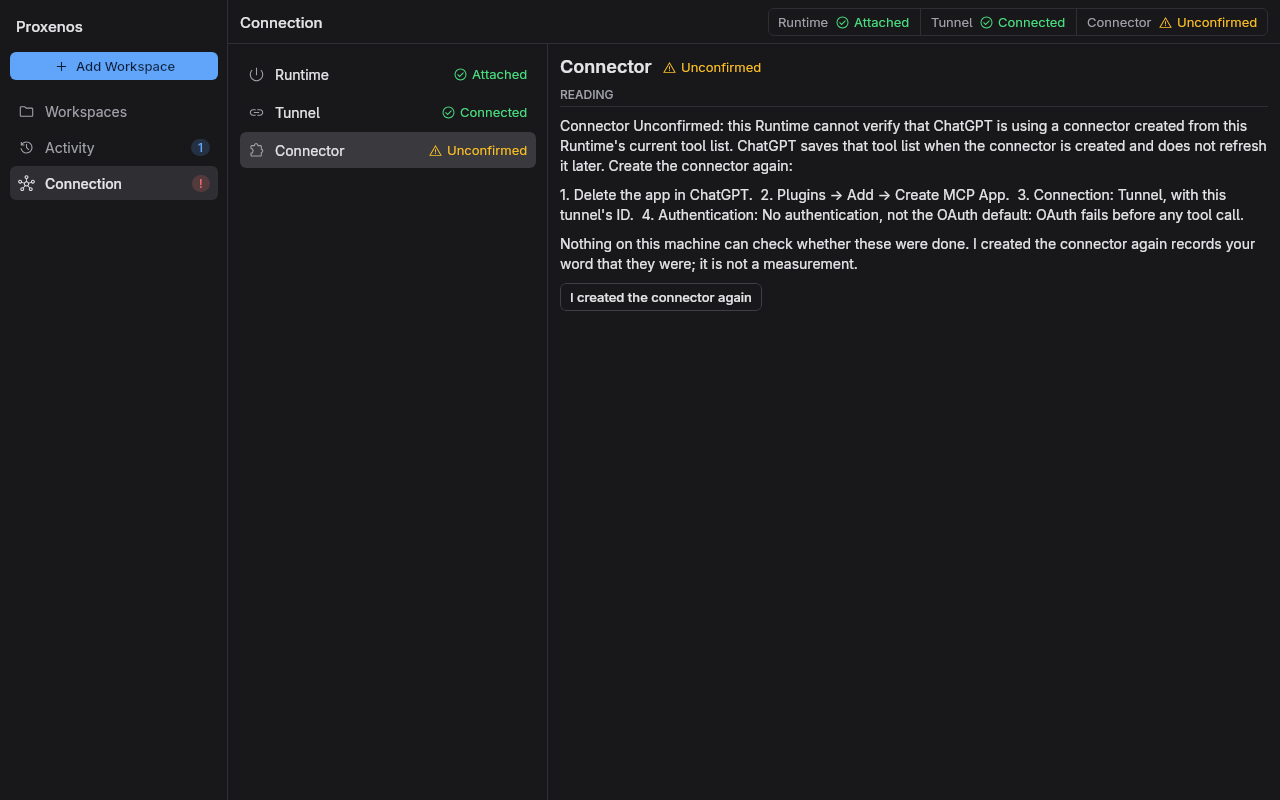
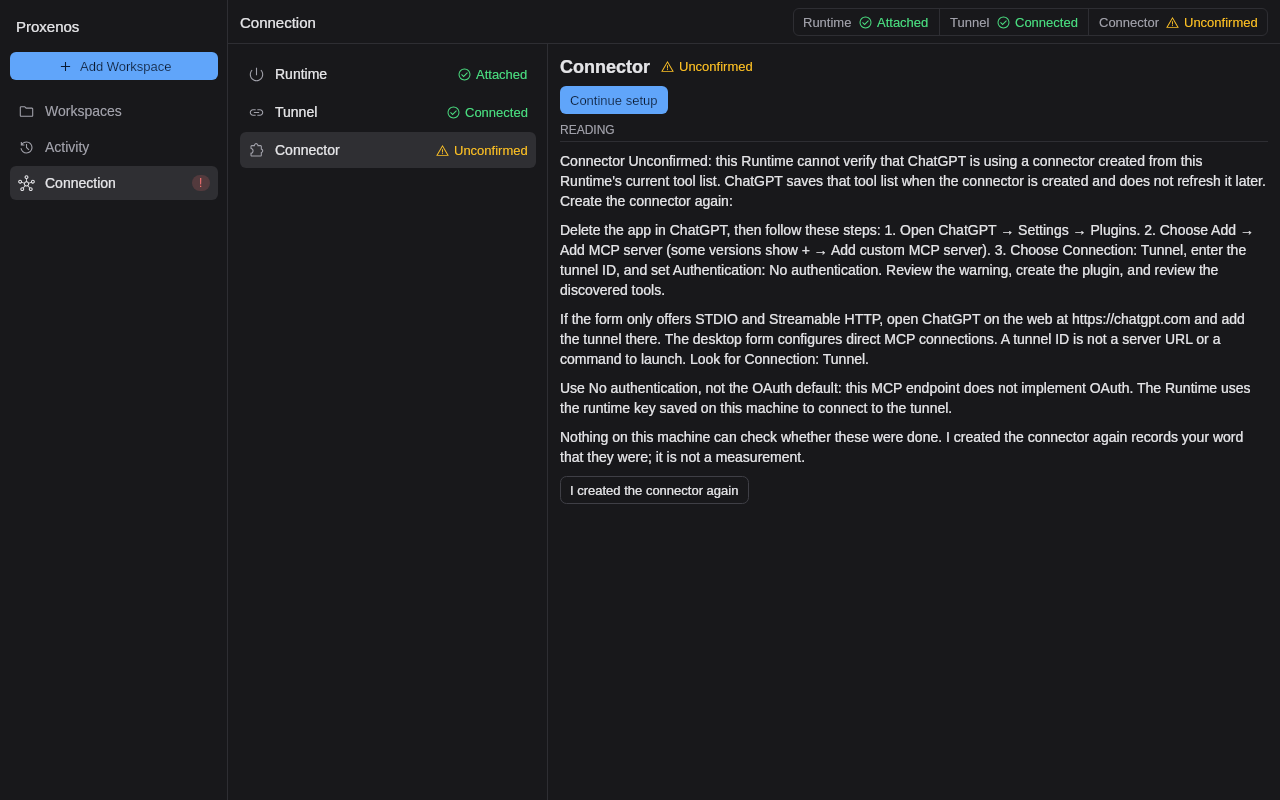
Clarify ChatGPT tunnel setup across the app
- Explain where to add a tunnel and what to do when desktop only offers direct MCP
- Update the setup wizard, terminal guide, and screenshots

diff --git a/frontend/src/main/kotlin/io/github/kzagoris/proxenos/frontend/Wording.kt b/frontend/src/main/kotlin/io/github/kzagoris/proxenos/frontend/Wording.kt
@@ -182,6 +182,19 @@ object Wording {
       "reachable with nobody present. After a reboot every call from ChatGPT fails until the Runtime is started " +
       "once, so that silence is expected rather than a fault to hunt."
 
+  const val CHATGPT_MCP_STEPS: String =
+    "1. Open ChatGPT → Settings → Plugins.\n" +
+      "2. Choose Add → Add MCP server (some versions show + → Add custom MCP server).\n" +
+      "3. Choose Connection: Tunnel, enter the tunnel ID, and set Authentication: No authentication. " +
+      "Review the warning, create the plugin, and review the discovered tools."
+
+  const val CHATGPT_DIRECT_MCP: String =
+    "If the form only offers STDIO and Streamable HTTP, open ChatGPT on the web at https://chatgpt.com " +
+      "and add the tunnel there. The desktop form configures direct MCP connections. " +
+      "A tunnel ID is not a server URL or a command to launch. Look for Connection: Tunnel."
+
+  const val CHATGPT_CONNECTION_GUIDE: String = "https://developers.openai.com/plugins/deploy/connect-chatgpt"
+
   /**
    * The Unconfirmed detail: the literal steps, and plainly that nothing here can check them — so
    * [acknowledge], the frontend's name for the act that records it, records the user's word and
@@ -190,8 +203,10 @@ object Wording {
   fun unconfirmed(acknowledge: String): List<String> = listOf(
     "Connector Unconfirmed: this Runtime cannot verify that ChatGPT is using a connector created from this Runtime's current tool list. " +
       "ChatGPT saves that tool list when the connector is created and does not refresh it later. Create the connector again:",
-    "1. Delete the app in ChatGPT.  2. Plugins → Add → Create MCP App.  3. Connection: Tunnel, with this tunnel's ID.  " +
-      "4. Authentication: No authentication, not the OAuth default: OAuth fails before any tool call.",
+    "Delete the app in ChatGPT, then follow these steps: ${CHATGPT_MCP_STEPS.replace('\n', ' ')}",
+    CHATGPT_DIRECT_MCP,
+    "Use No authentication, not the OAuth default: this MCP endpoint does not implement OAuth. " +
+      "The Runtime uses the runtime key saved on this machine to connect to the tunnel.",
     "Nothing on this machine can check whether these were done. $acknowledge records your word that they were; it is not a measurement.",
   )
 

diff --git a/gui/src/main/kotlin/io/github/kzagoris/proxenos/gui/SetupPane.kt b/gui/src/main/kotlin/io/github/kzagoris/proxenos/gui/SetupPane.kt
@@ -308,14 +308,17 @@ private fun SetupWorkspace(state: GuiState, send: (GuiIntent) -> Unit, chooser: 
 private fun SetupChatGPT(state: GuiState, send: (GuiIntent) -> Unit) {
   val tunnelId = state.setupSavedTunnelId ?: state.setupTunnelId
   SetupTitle("Add Proxenos to ChatGPT", "Create a custom MCP plugin using your tunnel. Keep the Runtime running while you do this.")
-  Text("1. Open ChatGPT → Plugins → + → Add custom MCP server.\n2. Enter these settings, review ChatGPT’s warning, then choose Create as a plugin.")
+  Text(Wording.CHATGPT_MCP_STEPS)
   ValueCard(listOf("Name" to "Proxenos", "Connection" to "Tunnel",
     "Tunnel ID" to tunnelId.ifBlank { "Use the tunnel configured for this Runtime" }, "Authentication" to "No authentication"))
   FlowRow(horizontalArrangement = Arrangement.spacedBy(8.dp), verticalArrangement = Arrangement.spacedBy(8.dp)) {
     SetupCopy("Copy name", "Proxenos")
     if (tunnelId.isNotBlank()) SetupCopy("Copy tunnel ID", tunnelId)
-    SetupLink("Open ChatGPT", CHATGPT)
+    SetupLink("Open ChatGPT on the web", CHATGPT)
+    SetupLink("OpenAI connection guide", Wording.CHATGPT_CONNECTION_GUIDE)
   }
+  Section("I only see STDIO and Streamable HTTP")
+  Text(Wording.CHATGPT_DIRECT_MCP)
   Section("My tunnel isn’t listed")
   Text("Check that it is associated with this ChatGPT workspace, and that you have Tunnels Read + Use. If available, paste the tunnel ID directly.")
   Section("I can’t find the option to add a plugin")
@@ -334,7 +337,7 @@ private fun SetupTry(state: GuiState, send: (GuiIntent) -> Unit) {
     Shaded { SelectionContainer { Text(progress.prompt(state.snapshot), fontFamily = LocalMono.current) } }
     FlowRow(horizontalArrangement = Arrangement.spacedBy(8.dp), verticalArrangement = Arrangement.spacedBy(8.dp)) {
       SetupCopy("Copy prompt", progress.prompt(state.snapshot))
-      SetupLink("Open ChatGPT", CHATGPT)
+    SetupLink("Open ChatGPT on the web", CHATGPT)
     }
     SetupNote("The Operation will also appear in Activity.", title = "Waiting for a successful ChatGPT Root listing",
       busy = state.snapshot?.runtime?.state == RuntimeState.Connected && progress.selected(state.snapshot) != null)

diff --git a/gui/src/test/kotlin/io/github/kzagoris/proxenos/gui/ShellTest.kt b/gui/src/test/kotlin/io/github/kzagoris/proxenos/gui/ShellTest.kt
@@ -241,8 +241,8 @@ class ShellTest {
   fun `Unconfirmed shows the literal steps and records only the user's word`() = runComposeUiTest {
     val gui = shell(attached(RuntimeState.Connected, unconfirmed = true).after(GuiIntent.ShowStage(Stage.Connector)))
     onNodeWithText("Delete the app in ChatGPT", substring = true).assertExists()
-    onNodeWithText("Plugins → Add → Create MCP App", substring = true).assertExists()
-    onNodeWithText("Connection: Tunnel, with this tunnel's ID", substring = true).assertExists()
+    onNodeWithText("Add → Add MCP server", substring = true).assertExists()
+    onNodeWithText("Connection: Tunnel, enter the tunnel ID", substring = true).assertExists()
     onNodeWithText("Authentication: No authentication", substring = true).assertExists()
     onNodeWithText("records your word", substring = true).assertExists()
     onNodeWithText("I created the connector again").assertIsEnabled().performClick()

diff --git a/tui/src/test/kotlin/io/github/kzagoris/proxenos/tui/HomeScreenTest.kt b/tui/src/test/kotlin/io/github/kzagoris/proxenos/tui/HomeScreenTest.kt
@@ -355,7 +355,7 @@ class HomeScreenTest {
     assertFalse("Delete the app" in fresh.prose())
     assertTrue("No workspaces yet" in fresh.prose())
     val prose = fresh.keys("i", "ArrowDown", "ArrowDown", "Enter").prose()
-    for (step in listOf("Delete the app in ChatGPT", "Create MCP App", "Connection: Tunnel", "No authentication, not the OAuth default")) assertTrue(step in prose)
+    for (step in listOf("Delete the app in ChatGPT", "Add MCP server", "Connection: Tunnel", "No authentication, not the OAuth default")) assertTrue(step in prose)
   }
 
   @Test

diff --git a/README.md b/README.md
@@ -116,8 +116,10 @@ five steps:
    when you cannot find a setting. **Save & connect** saves the credentials and starts the Runtime.
 3. **Workspace** registers a directory at **Read**, or lets you choose a workspace you have
    already registered.
-4. **ChatGPT** lists the settings for the new plugin: **Connection · Tunnel**, your tunnel ID,
-   and **No authentication**. Create the plugin in ChatGPT, then confirm here.
+4. **ChatGPT** opens the plugin handoff: **Settings → Plugins → Add → Add MCP server**,
+   then **Connection · Tunnel**, your tunnel ID, and **No authentication**. If the desktop form
+   only offers STDIO and Streamable HTTP, use **Open ChatGPT on the web** to add the tunnel.
+   Create the plugin in ChatGPT, then confirm here.
 5. **Try it** waits until ChatGPT lists the workspace's root with `list_directory`, then shows
    the Operation it received and when. Your confirmation in step 4 does not count; only a real,
    successful request from ChatGPT does.
@@ -125,6 +127,8 @@ five steps:
 ![Welcome step: how this machine, the tunnel and ChatGPT connect, a local requirements check, and the choice between a new and an existing tunnel](docs/images/gui-setup-welcome.png)
 
 ![Tunnel step: links to Platform tunnel settings, expandable creation and tunnel ID guides, and the tunnel ID field](docs/images/gui-setup-tunnel.png)
+
+![ChatGPT step: current Add MCP server menu labels, Tunnel settings, and the web handoff when the desktop form only offers STDIO and Streamable HTTP](docs/images/gui-setup-chatgpt.png)
 
 You can leave at any point: **Finish later** returns to the main window, and **Continue setup**
 in **Connection** picks up where you left off. Closing the window keeps your completed steps and
@@ -193,17 +197,23 @@ follow after terminal setup, or when you need to create the connection again.
 
 Keep the Runtime running throughout these steps.
 
-1. In ChatGPT, open **Settings → Security and login** and enable **Developer mode**. A workspace administrator may need to grant access first.
-2. Open **Plugins**, select **Add** at the top right, and choose **Create MCP App**. The **New Plugin** dialog opens.
+1. Open ChatGPT's **Settings → Plugins**. If your account requires developer mode for custom MCP access, enable it in settings; a workspace administrator may need to grant access first.
+2. Select **Add → Add MCP server**. Some versions label this **+ → Add custom MCP server**.
 3. Give it a name such as **Proxenos** and a description such as “Read and work with my registered local workspaces.”
-4. Under **Connection**, switch from **Server URL** to **Tunnel** and enter the `tunnel_...` ID shown during setup.
+4. In the connection form, choose **Connection → Tunnel** and select your tunnel or enter the `tunnel_...` ID shown during setup. If the form only offers **Type → STDIO / Streamable HTTP**, open [ChatGPT on the web](https://chatgpt.com/) and add the tunnel there. That desktop form configures direct MCP connections; the tunnel ID is neither a server URL nor a command to launch. Look for the form with **Connection → Tunnel**.
 5. Set **Authentication** to **No authentication**. The dialog defaults to OAuth, which fails before any tool call. This application's MCP endpoint does not implement OAuth; the tunnel uses the runtime key you saved locally.
-6. Tick **I understand and want to continue**, select **Create**, and then **Connect Proxenos**.
+6. Review and accept ChatGPT's warning, create the plugin (**Create as a plugin** in the documented web flow), and review the discovered tools. Install or connect **Proxenos** if prompted.
 7. Start a new conversation, type **`@`**, and pick **Proxenos** from the **Plugins** list.
 
 With ChatGPT's default permission, **Allow low-risk tools**, read-only calls such as `git_status` run at once, while calls that change files or run commands may ask for approval first. **See details** in that prompt shows the exact arguments, including the command.
 
-These menu locations follow OpenAI's [connection guide](https://developers.openai.com/plugins/deploy/connect-chatgpt) as of September 2026. UI labels and availability can vary by account.
+The desktop menu labels were checked against screenshots on October 14, 2026. OpenAI's
+[connection guide](https://developers.openai.com/plugins/deploy/connect-chatgpt) and
+[Secure MCP Tunnel guide](https://developers.openai.com/api/docs/guides/secure-mcp-tunnels)
+still describe a separate **Connection → Tunnel** form. Its
+[desktop MCP guide](https://learn.chatgpt.com/docs/extend/mcp?surface=desktop) describes direct
+STDIO and Streamable HTTP connections. UI labels and tunnel availability can vary by account
+and surface; the desktop form shown in those screenshots has no Tunnel option.
 
 Ask ChatGPT:
 

diff --git a/docs/INSTALL.md b/docs/INSTALL.md
@@ -218,7 +218,7 @@ For the terminal flow:
 ```
 
 It walks the OpenAI Platform dashboard with you — create a tunnel, associate it with your ChatGPT
-workspace, create a runtime key, enable developer mode under **Settings → Security and login** —
+workspace, create a runtime key, check custom MCP access in ChatGPT settings —
 and writes the one file the Runtime will not start without,
 `$XDG_CONFIG_HOME/proxenos/credentials` (default `~/.config/proxenos/credentials`),
 at mode `0600`. The key is read hidden and never echoed.
@@ -252,11 +252,19 @@ command…**; and **Connection** (`Ctrl+3`), one row each for **Runtime**, **Tun
 Runtime and every Access Level as they were.
 
 On a fresh install the status line shows **Connector · Unconfirmed**. Under **Connection →
-Connector** are the instructions: **Plugins → Add → Create MCP App**, set **Connection** to
+Connector** are the instructions: **Settings → Plugins → Add → Add MCP server** (or
+**+ → Add custom MCP server**), set **Connection** to
 **Tunnel** with your tunnel ID, and choose **No authentication**. Select **I created the
 connector again** once you have completed setup; this records your confirmation, not a
 connectivity measurement. **Connection → Runtime** has **Stop Runtime…**, and **Start Runtime**
 while it is stopped.
+
+If ChatGPT's desktop form only offers **STDIO** and **Streamable HTTP**, open
+[ChatGPT on the web](https://chatgpt.com/) and add the tunnel there. The desktop form configures
+direct MCP connections; a tunnel ID is neither a server URL nor a command to launch. Look for
+**Connection → Tunnel**, as described in OpenAI's
+[connection guide](https://developers.openai.com/plugins/deploy/connect-chatgpt). If Tunnel is
+unavailable there too, check custom MCP access with your ChatGPT workspace administrator.
 
 From a terminal, or on the portable archive, use the TUI:
 
@@ -271,7 +279,8 @@ run only; previous runs stay stored in the Runtime but are not shown in either f
 In the TUI, `[i]` opens **Review**: one row per link — **Runtime**, **Tunnel**, **Connector** — each with
 its own state, and `[Enter]` opens the selected row's detail. On a fresh install the status
 line shows **Connector · Unconfirmed**; the Connector detail carries the instructions:
-**Plugins → Add → Create MCP App**, set **Connection** to **Tunnel** with your tunnel ID, and
+**Settings → Plugins → Add → Add MCP server** (or **+ → Add custom MCP server**), set
+**Connection** to **Tunnel** with your tunnel ID, and
 choose **No authentication**. Press `[C]` there once you have
 completed setup; this records your confirmation, not a connectivity measurement.
 A connection failure and the tunnel's own words are on the Tunnel row and its detail. A stage
